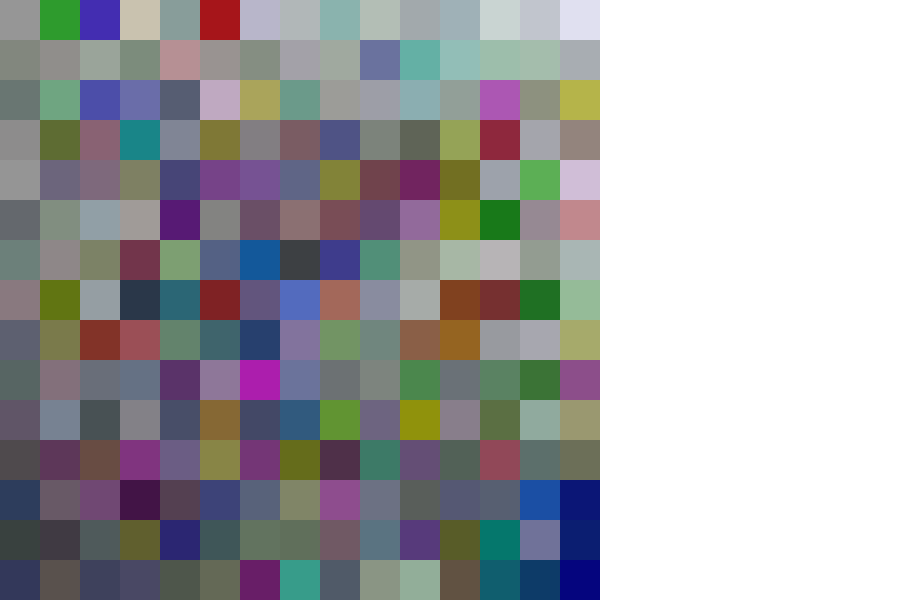
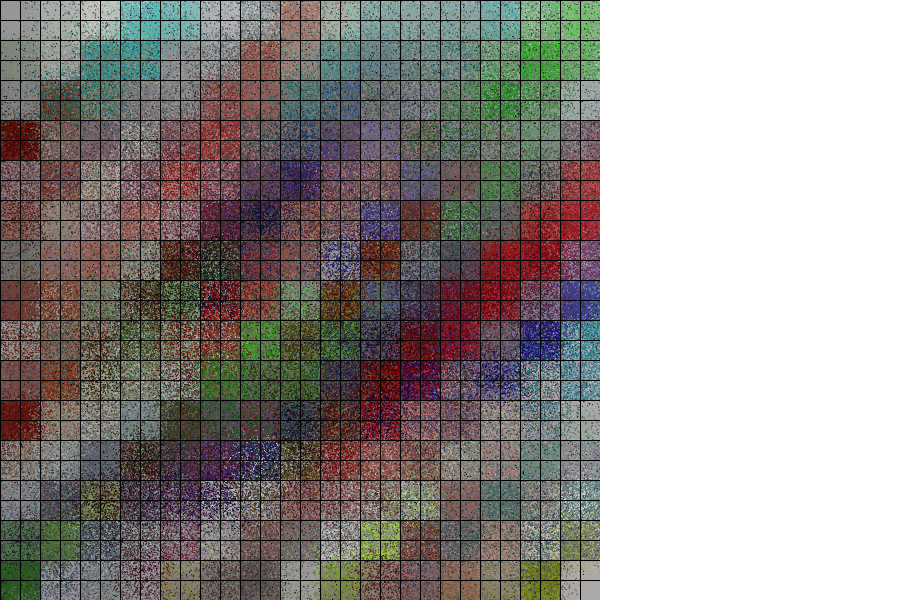
,

diff --git a/My website compsci/Unit6/EDITOR/s/build/source/s.java b/My website compsci/Unit6/EDITOR/s/build/source/s.java
@@ -1,0 +1,152 @@
+import processing.core.*; 
+import processing.data.*; 
+import processing.event.*; 
+import processing.opengl.*; 
+
+import controlP5.*; 
+
+import java.util.HashMap; 
+import java.util.ArrayList; 
+import java.io.File; 
+import java.io.BufferedReader; 
+import java.io.PrintWriter; 
+import java.io.InputStream; 
+import java.io.OutputStream; 
+import java.io.IOException; 
+
+public class s extends PApplet {
+
+
+
+
+ControlP5 cp5;
+
+PImage tiger;
+boolean bw;
+boolean bw2;
+
+public void setup() {
+  
+  tiger = loadImage("Tiger.jpeg");
+  image(tiger,0,0);
+  cp5 = new ControlP5(this);
+
+  cp5.addSlider("threshold")
+     .setPosition(100, 20)
+     .setSize(200, 19)
+     .setRange(0,255)
+     .setValue(255/2)
+     ;
+
+   cp5.addSlider("posterize")
+     .setPosition(100, 40)
+     .setSize(200, 19)
+     .setRange(0,255)
+     .setValue(255/2)
+     ;
+
+}
+
+public void draw() {
+
+}
+
+
+public void threshold(int val) {
+  println("a slider event from threshold: "+val);
+  loadPixels();
+  tiger.loadPixels();
+  for (int i = 0; i < tiger.pixels.length; i++) {
+    float r = red   (tiger.pixels[i]);
+    float g = green (tiger.pixels[i]);
+    float b = blue  (tiger.pixels[i]);
+
+    if (keyCode == UP) {
+      bw = true;
+    }
+
+    if (keyCode == DOWN) {
+      bw = false;
+    }
+
+ if (bw == true) {
+   if ((r+g+b)/3 < val) {
+     r = 0;
+     g = 0;
+     b = 0;
+   }
+
+   else {
+     r = 255;
+     g = 255;
+     b = 255;
+   }
+  }
+
+else {
+   if (r > val) {
+     g = 0;
+     b = 0;
+   }
+
+  else if (g > val) {
+     r = 0;
+     b = 0;
+   }
+
+   else {
+     r = 0;
+     g = 0;
+   }
+}
+    int c = color(r,g,b);
+    pixels[i] = c;
+  }
+  updatePixels();
+}
+
+public void posterize(int val) {
+
+  println("a slider event from posterize: "+val);
+  loadPixels();
+  tiger.loadPixels();
+  for (int i = 0; i < tiger.pixels.length; i++) {
+    float r = red   (tiger.pixels[i]);
+    float g = green (tiger.pixels[i]);
+    float b = blue  (tiger.pixels[i]);
+
+   if (keyCode == LEFT) {
+      bw = true;
+    }
+
+    if (keyCode == RIGHT) {
+      bw = false;
+    }
+
+  if (bw == false) {
+    r = PApplet.parseInt(red(tiger.pixels[i])/val) * val;
+    g = PApplet.parseInt(green(tiger.pixels[i])/val) * val;
+    b = PApplet.parseInt(blue(tiger.pixels[i])/val) * val;
+  }
+
+  else {
+    r = PApplet.parseInt(brightness(tiger.pixels[i])/val) * val;
+    g = PApplet.parseInt(brightness(tiger.pixels[i])/val) * val;
+    b = PApplet.parseInt(brightness(tiger.pixels[i])/val) * val;
+  }
+
+    int c = color(r,g,b);
+    pixels[i] = c;
+  }
+  updatePixels();
+}
+  public void settings() {  size(757,568); }
+  static public void main(String[] passedArgs) {
+    String[] appletArgs = new String[] { "s" };
+    if (passedArgs != null) {
+      PApplet.main(concat(appletArgs, passedArgs));
+    } else {
+      PApplet.main(appletArgs);
+    }
+  }
+}
